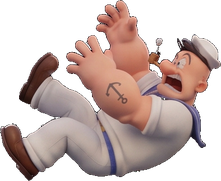
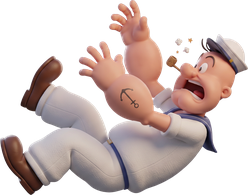
Düşme modeli yenilendi (v0.10)
- reis_dus yeni görselle değiştirildi; kafa boyutu diğer pozlara göre
  oranlandı. Oyundaki yön mantığı (havada sağa giderken flip) bozulmasın
  diye sağa bakan görsel aynalanarak kaydedildi.

Claude-Session: https://claude.ai/code/session_017AaaMCeVHMkA1CeuVEH2QL

diff --git a/www/js/config.js b/www/js/config.js
@@ -1,7 +1,7 @@
 // Oyunun tüm ayarları burada. AdMob ID'lerini buraya yaz.
 window.OYUN_CONFIG = {
   oyunAdi: "DigPopeyeDug",
-  surum: "v0.09", // sağ altta görünür
+  surum: "v0.10", // sağ altta görünür
   paketAdi: "com.jawk.digpopeyedug", // Play Store'a yüklendikten sonra DEĞİŞTİRİLEMEZ
 
   reklam: {
